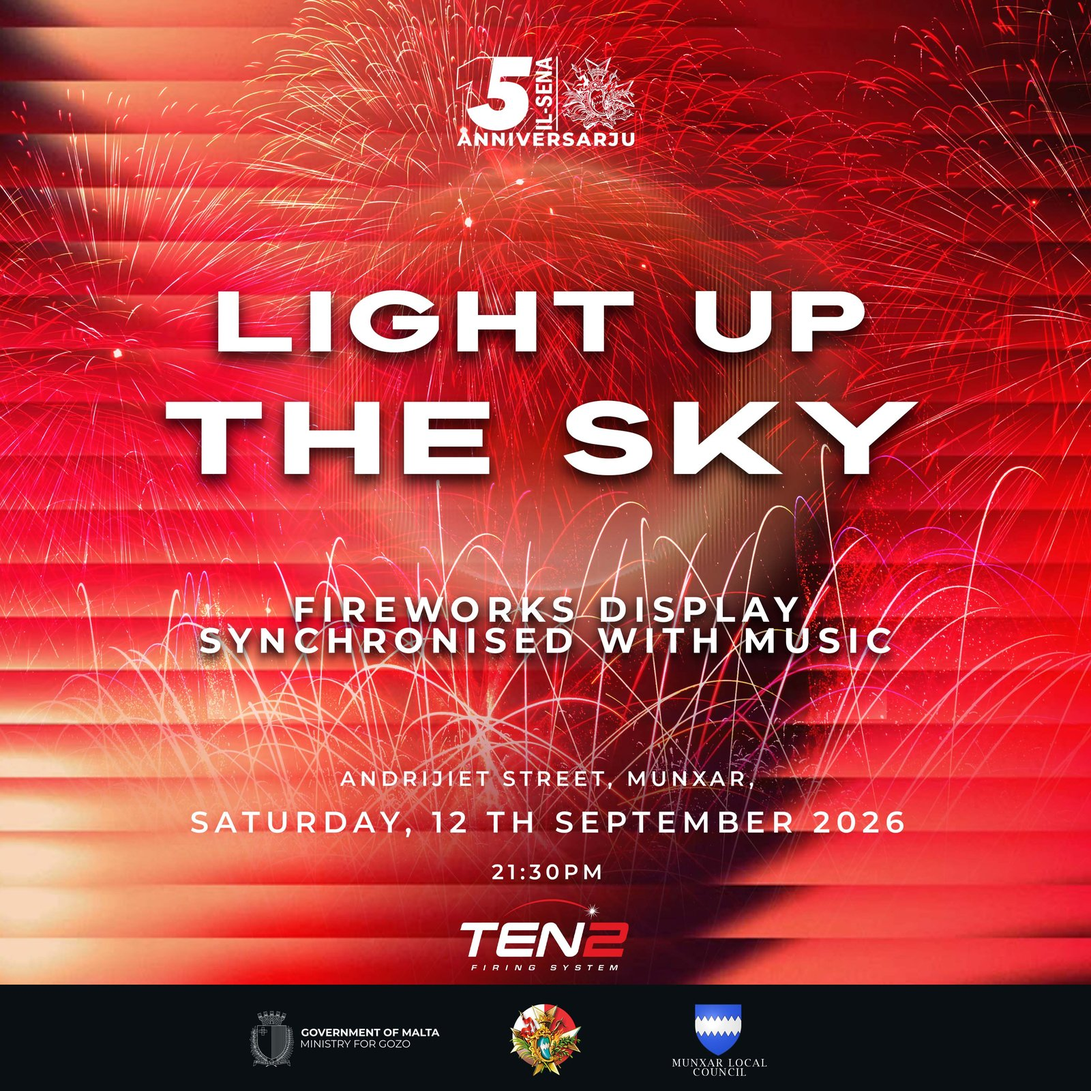
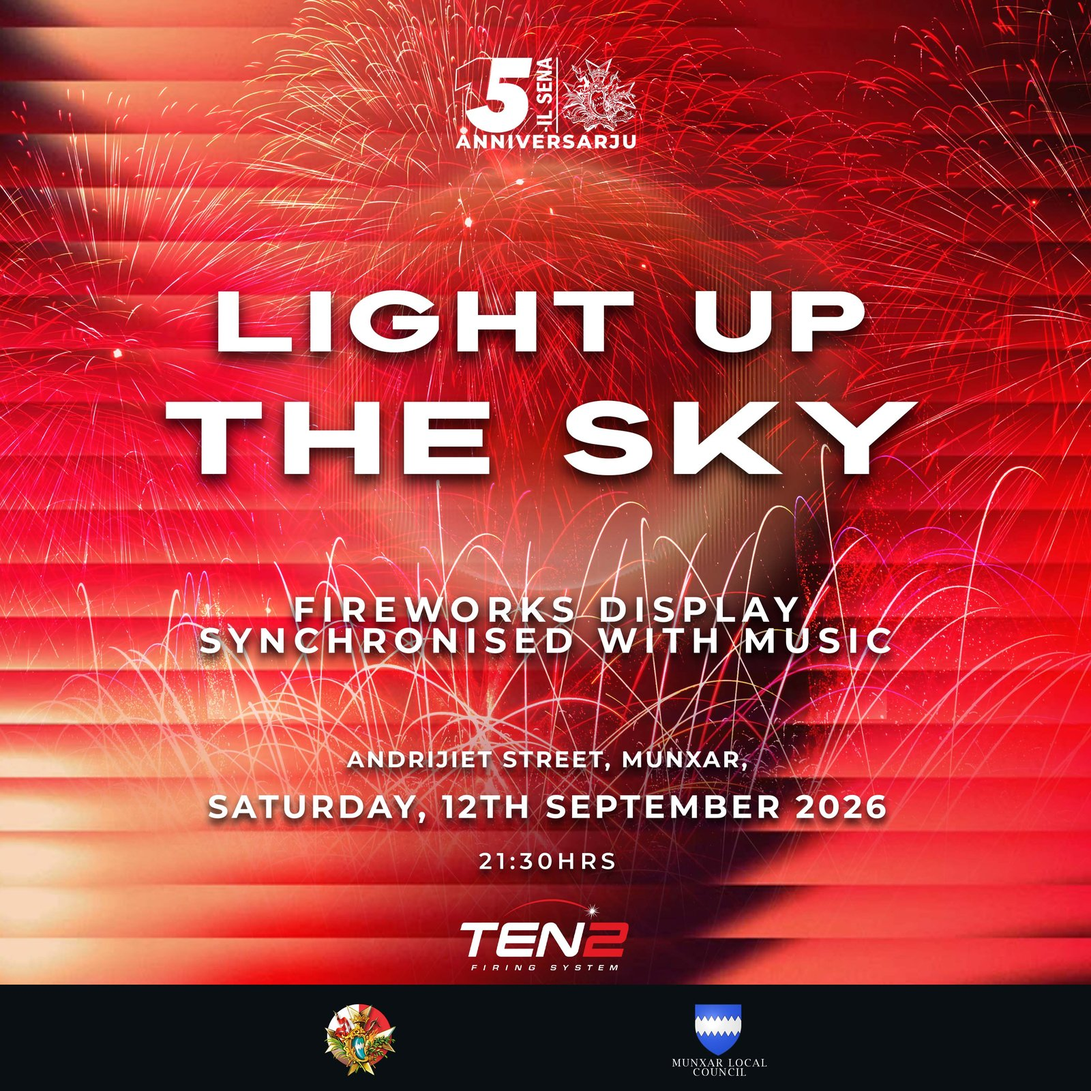
Update the Light Up the Sky and Sky Full of Stars posters
New 15th-anniversary branded versions supplied by the committee;
Ground Fireworks and Feast Day posters are unchanged.

diff --git a/config.py b/config.py
@@ -50,7 +50,7 @@ class Config:
     # Same idea for the event posters shown in the Programme section
     # (static/img/posters/<key>.jpg) - these are expected to be swapped out
     # again soon, so bump this whenever one is replaced.
-    POSTER_ASSETS_VERSION = "1"
+    POSTER_ASSETS_VERSION = "2"
 
     # Same idea for the site's own CSS/JS (also cached for hours under fixed
     # filenames) - bump whenever style.css or a template's <script> changes,
